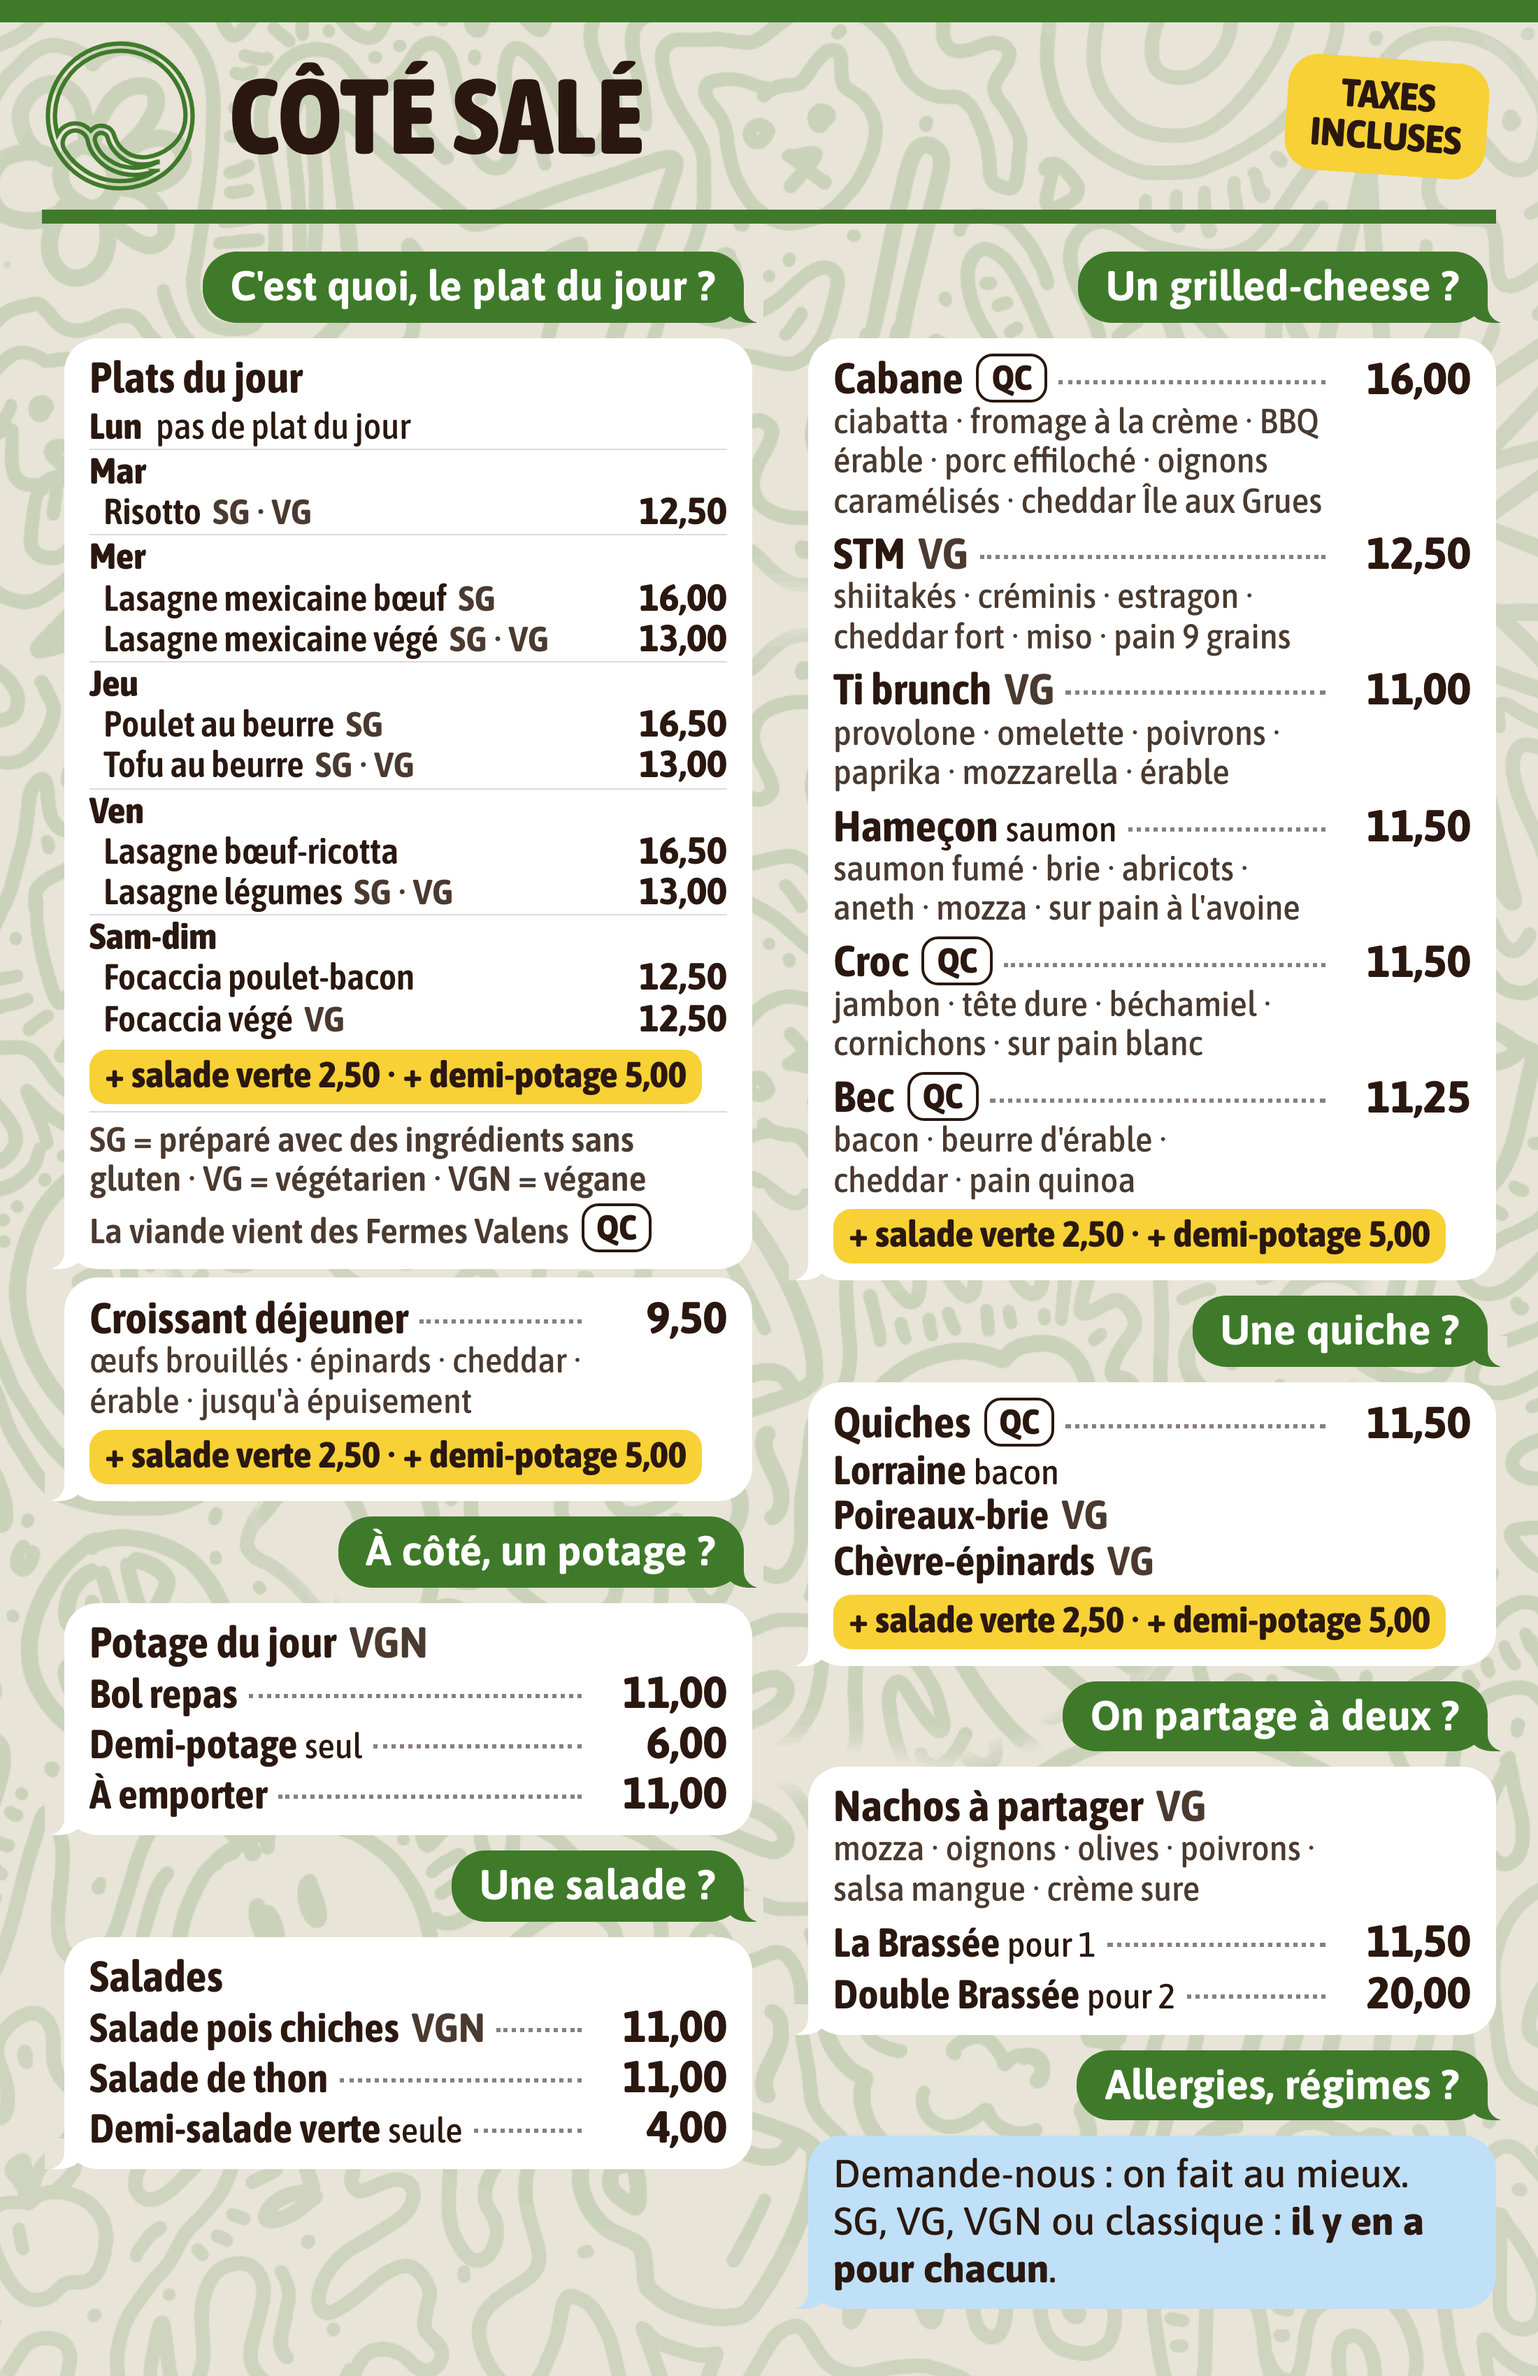
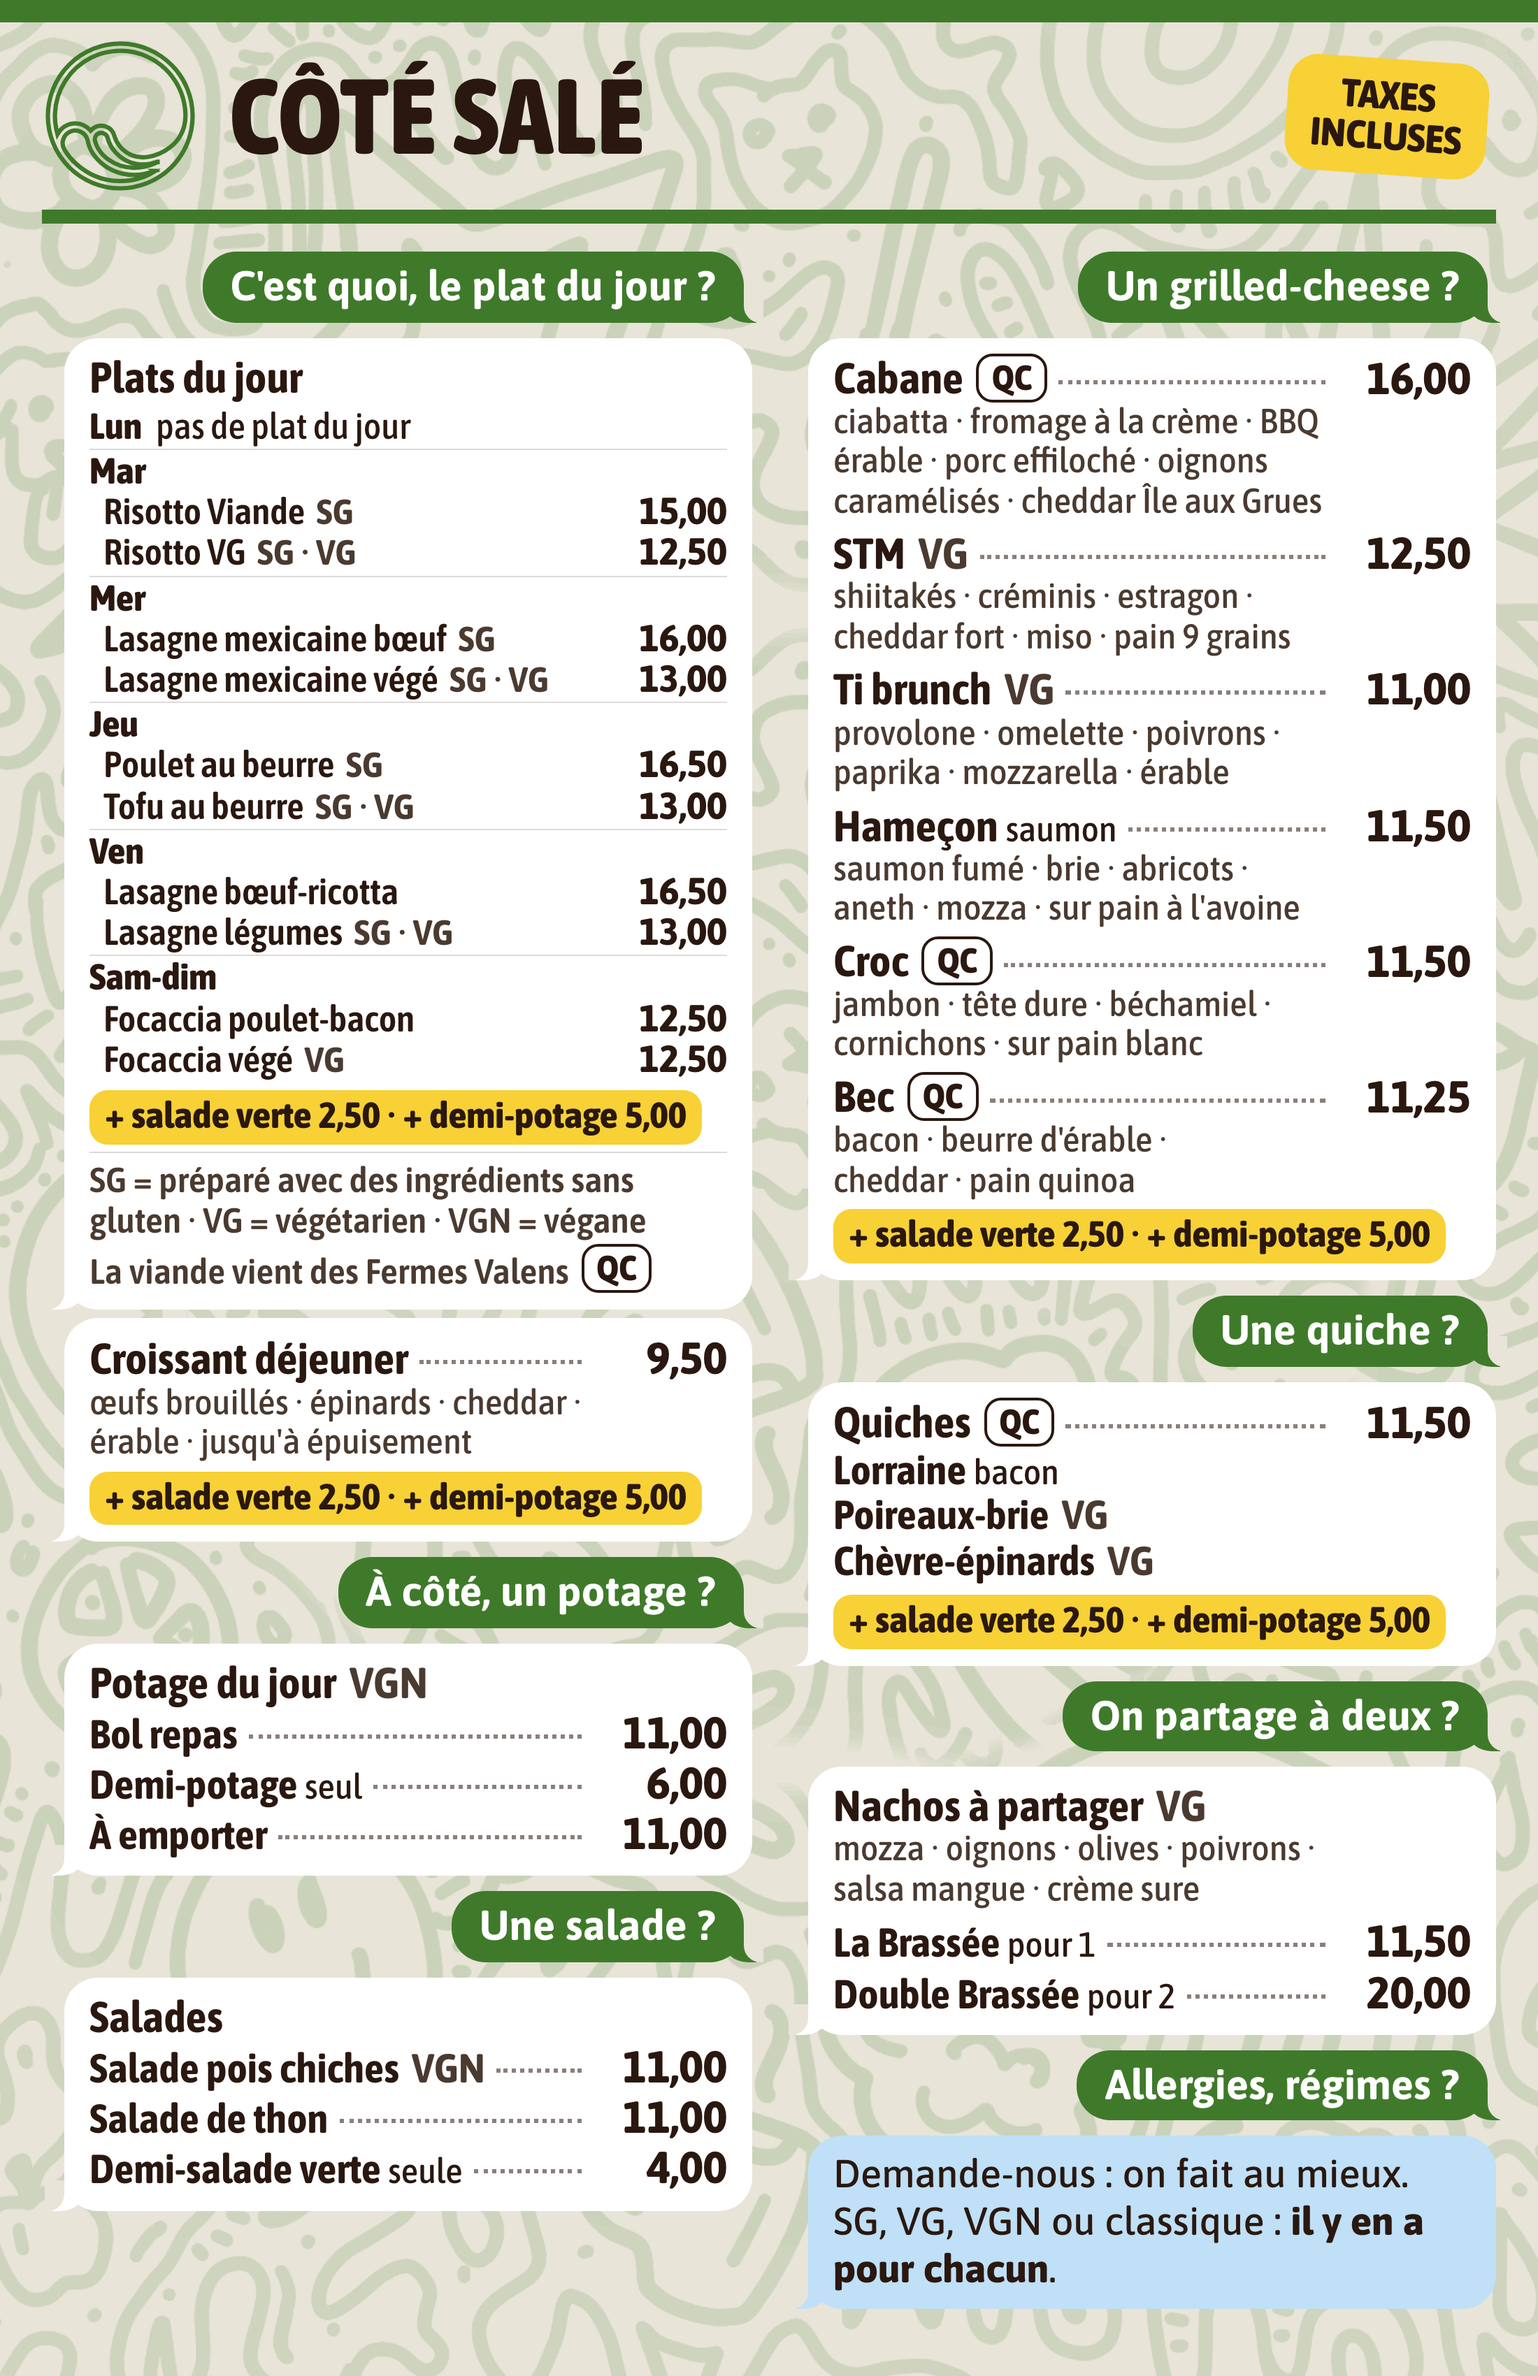
menu en ligne : risotto du mardi en deux lignes, Risotto Viande (SG) 15,00 et Risotto VG 12,50 (Cédric 25/11 01h54-01h57)

Changed region(s): [[0.0309, 0.1871, 0.4945, 0.9353]]

diff --git a/src/frontend/data/menu-texte.js b/src/frontend/data/menu-texte.js
@@ -20,7 +20,7 @@ export const MENU_SALE = {
       accompagnement: 'Salade verte 2,50 $ · demi-potage 5,00 $',
       jours: [
         { jour: 'Lundi', viande: 'Pas de plat du jour', vege: null },
-        { jour: 'Mardi', viande: null, vege: 'Risotto (SG · VG) 12,50 $' },
+        { jour: 'Mardi', viande: 'Risotto Viande (SG) 15,00 $', vege: 'Risotto VG (SG · VG) 12,50 $' },
         { jour: 'Mercredi', viande: 'Lasagne mexicaine au bœuf (SG) 16,00 $', vege: 'Lasagne mexicaine (SG · VG) 13,00 $' },
         { jour: 'Jeudi', viande: 'Poulet au beurre (SG) 16,50 $', vege: 'Tofu au beurre (SG · VG) 13,00 $' },
         { jour: 'Vendredi', viande: 'Lasagne bœuf-ricotta 16,50 $', vege: 'Lasagne aux légumes (SG · VG) 13,00 $' },
